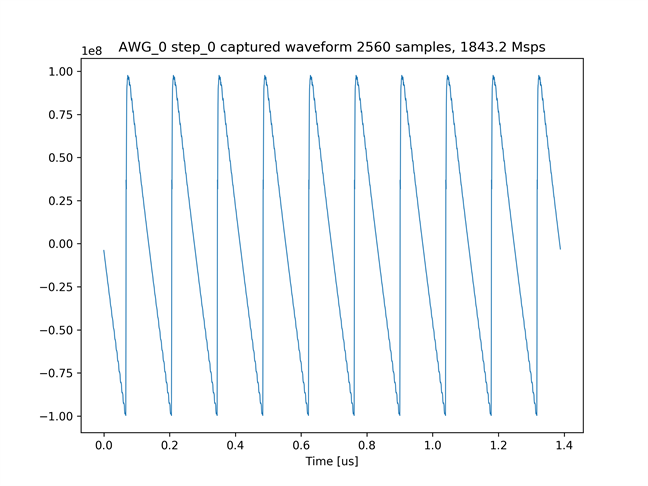
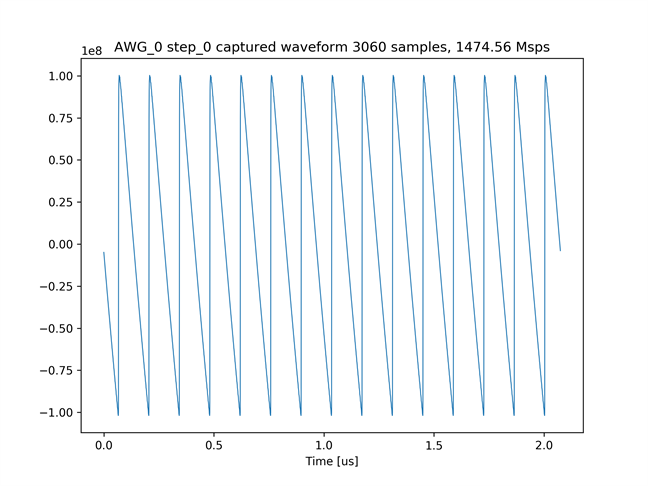
modify awg_windowed_capture.py

diff --git a/examples/awg_windowed_capture/awg_windowed_capture.py b/examples/awg_windowed_capture/awg_windowed_capture.py
@@ -34,10 +34,10 @@ LOG_LEVEL = logging.INFO
 # Constants
 BITSTREAM = 7  # AWG SA DRAM CAPTURE
 PLOT_DIR = "plot_awg_windowed_capture/"
-DAC_FREQ = 1843.2
-ADC_FREQ = 1843.2
+DAC_FREQ = 1474.56
+ADC_FREQ = 1474.56
 CAPTURE_DELAY = 320
-POST_BLANK = 1000
+POST_BLANK = 2000
 
 BITSTREAM_LOAD_TIMEOUT = 10
 TRIG_BUSY_TIMEOUT = 60
@@ -46,11 +46,11 @@ DUC_DDC_FACTOR = 1
 is_infinite_windows = False
 if is_infinite_windows:
     NUM_WINDOWS = -1
-    NUM_CYCLES_IN_WINDOW = 10
+    NUM_CYCLES_IN_WINDOW = 15
     NUM_CYCLES = -1
 else:
-    NUM_WINDOWS = 60
-    NUM_CYCLES_IN_WINDOW = 10
+    NUM_WINDOWS = 10000
+    NUM_CYCLES_IN_WINDOW = 15
     NUM_CYCLES = NUM_WINDOWS * NUM_CYCLES_IN_WINDOW
 
 # ADC or DAC

diff --git a/examples/awg_windowed_capture/README.md b/examples/awg_windowed_capture/README.md
@@ -3,8 +3,8 @@
 [awg_windowed_capture.py](./awg_windowed_capture.py) は，ウィンドウ付きキャプチャのテストを行うスクリプトです．
 ウィンドウ付きキャプチャの説明は，[キャプチャ設定手順](../../docs/capture-ja.md) を参照してください．
 本スクリプトでは，AWG 0 と AWG 1 が，それぞれ周波数の異なるノコギリ波を出力し，
-キャプチャモジュールが，ノコギリ波 10 周期分のウィンドウサイズでキャプチャします．
-キャプチャデータの形状と振幅から，10 周期分のノコギリ波がズレることなく積算できていることが確認できます．
+キャプチャモジュールが，ノコギリ波 15 周期分のウィンドウサイズでキャプチャします．
+キャプチャデータの形状と振幅から，15 周期分のノコギリ波がズレることなく積算できていることが確認できます．
 
 ## セットアップ
 
